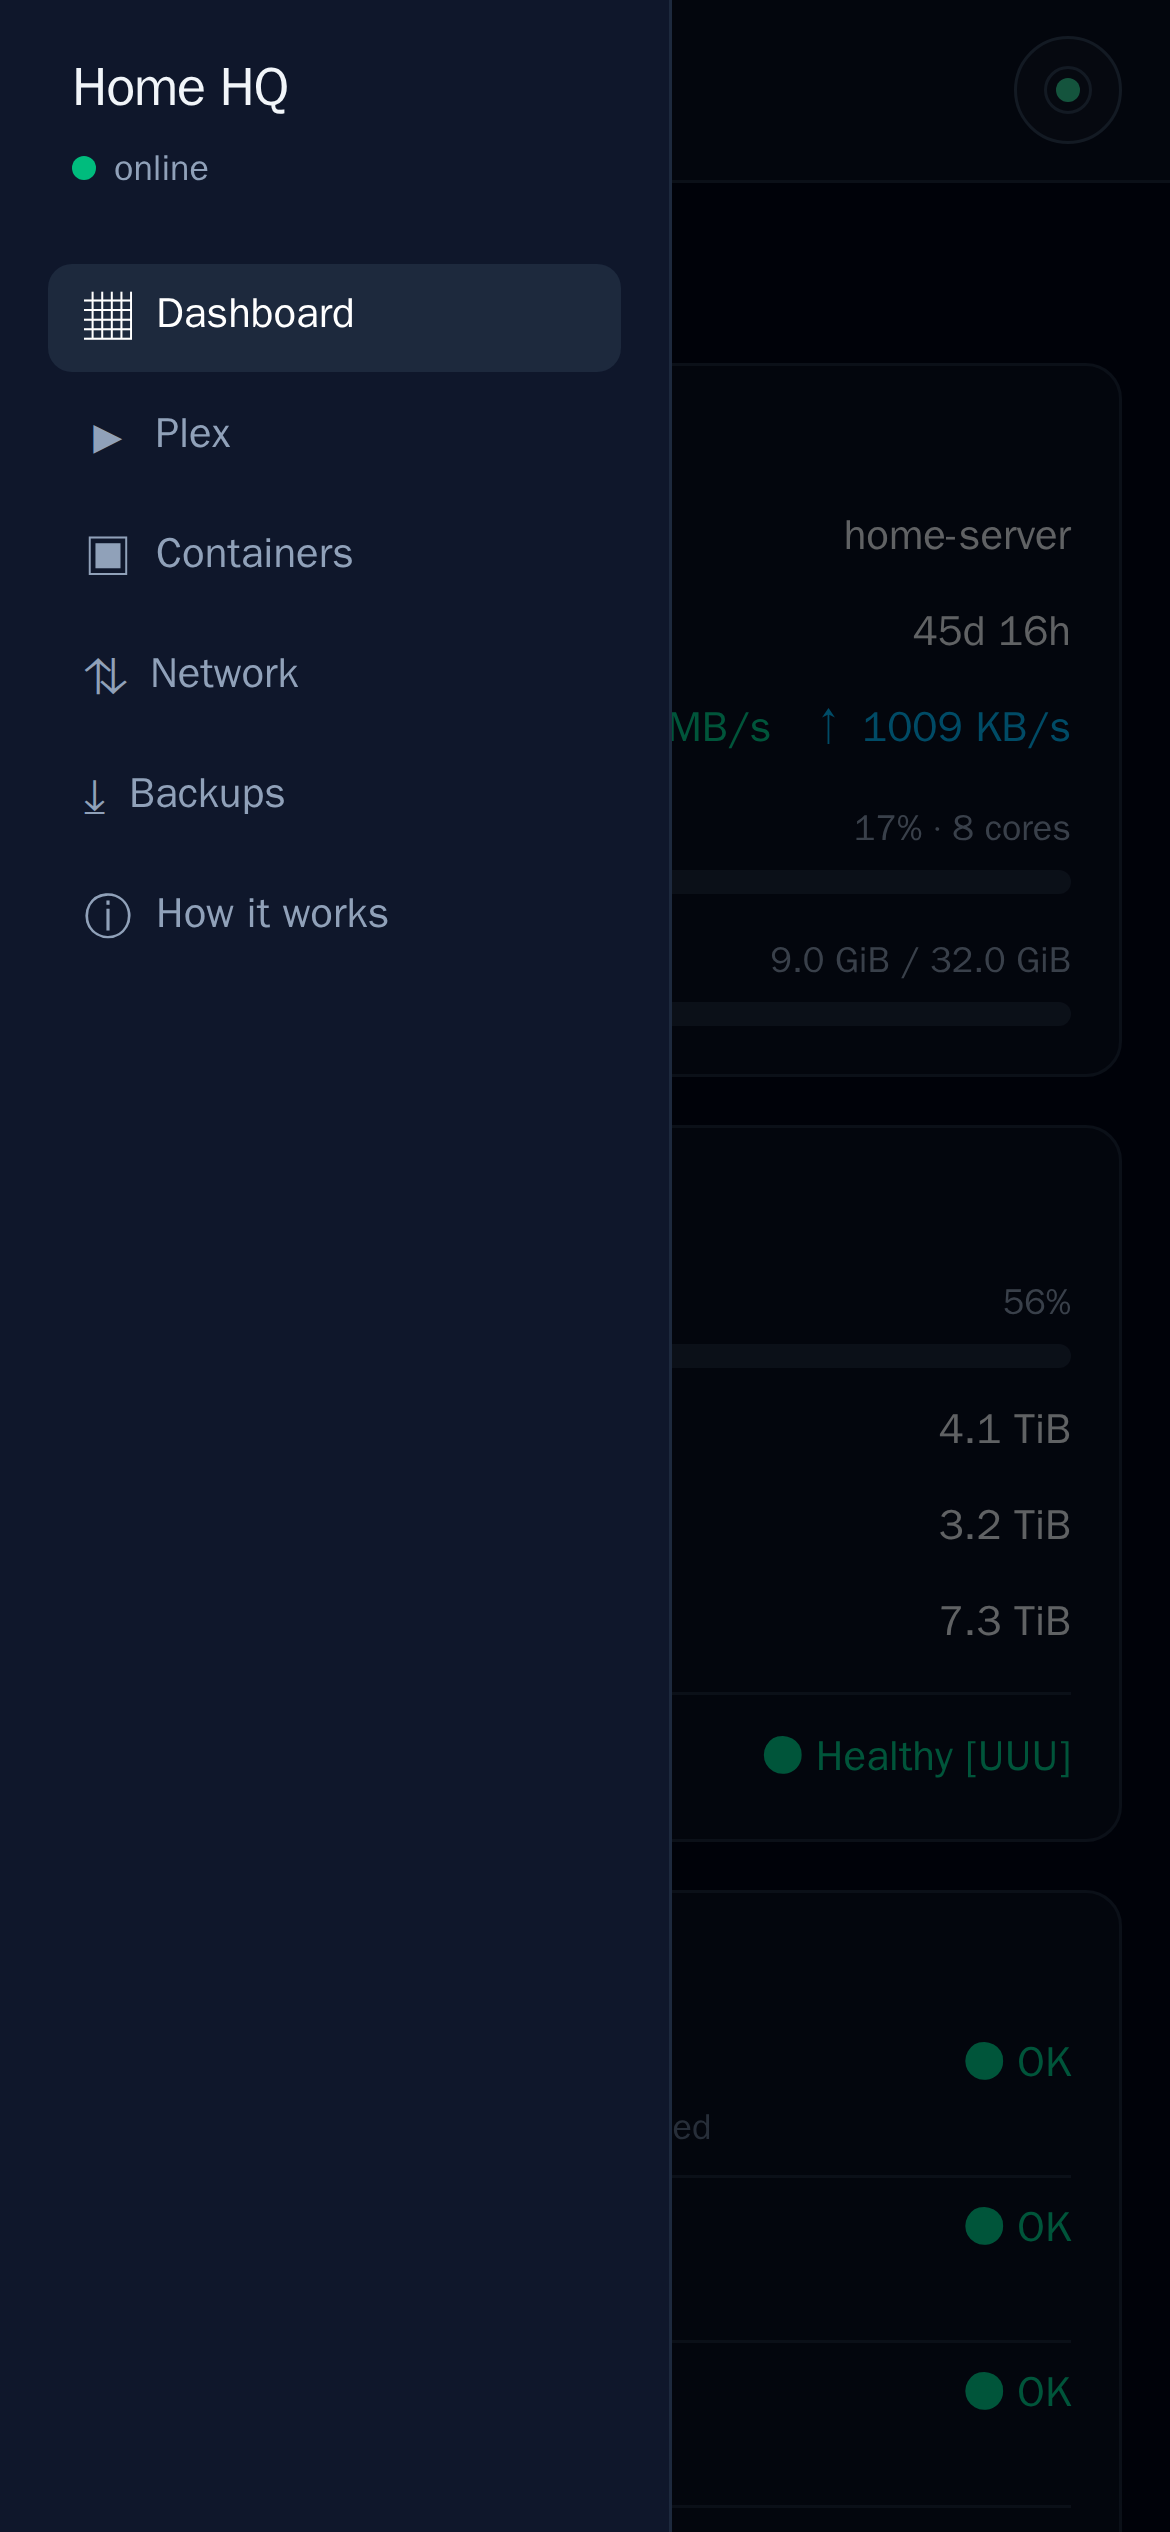
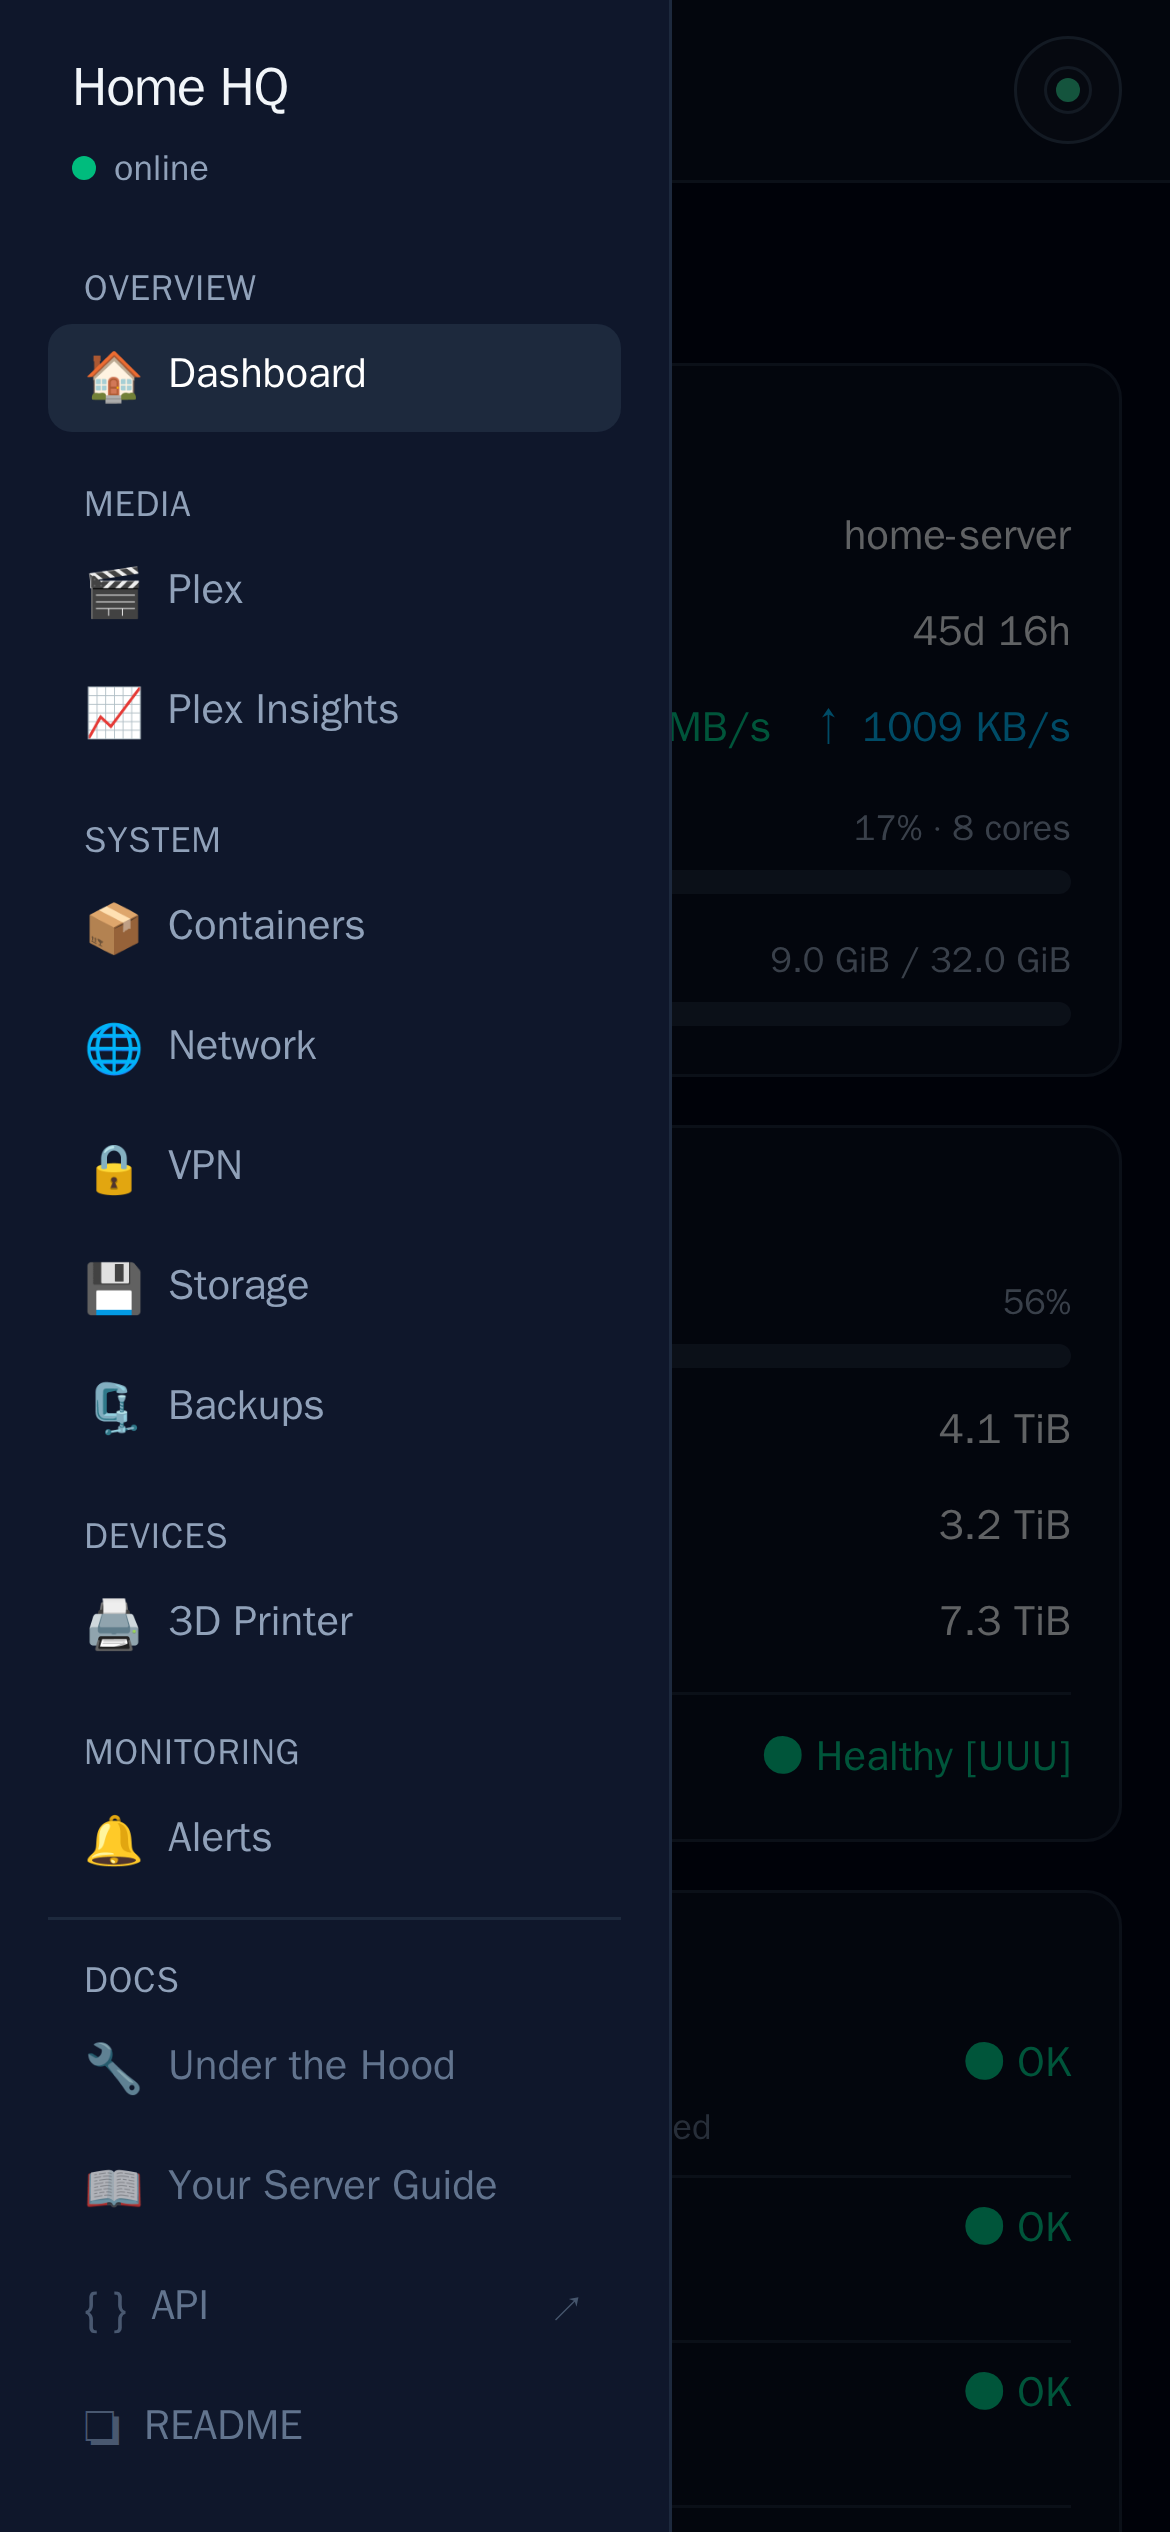
README: refresh content + regenerate screenshots
Add the Alerts module to the feature table; document the printer/alerts
config and the background-workers + privileged-host-script split; fix the
module-registry example to the current emoji icons. Regenerate all
screenshots against generic mock data and add shots for the modules built
since the last pass (3D printer, storage, alerts, VPN, Plex insights); the
theme reel and dashboard now show the grouped sidebar + emoji nav.

diff --git a/README.md b/README.md
@@ -3,9 +3,9 @@
 _AI-assisted build._
 
 **A self-hosted personal platform for running your own server — a small shell that
-modules plug into, grown over time.** One dashboard for system health, storage,
-containers, network, media, and backups, all reproducible from this repo and
-configured entirely through the environment.
+modules plug into, grown over time.** One place for system health, storage,
+containers, network, media, VPN, a 3D printer, and push alerting — all
+reproducible from this repo and configured entirely through the environment.
 
 The platform *is* the project; it never "finishes." Each feature is a
 self-contained **module** that hangs off a common **shell** (nav + layout), so
@@ -30,6 +30,7 @@ the surface area grows without the core getting messier.
 | **VPN** | Egress **leak check** for a VPN-routed container — compares its public exit IP against the host's own and flags a leak if they match (exit vs home shown side by side, with the forwarded port). A host timer does the lookup the unprivileged app can't; a leak raises an urgent alert. |
 | **Storage** | The disk deep-dive: capacity with a growth projection ("full in ~N weeks") and a **what's-using-space breakdown**, RAID array health in plain language, **live per-disk I/O graphs**, and per-drive SMART with temperature/wear **trend charts** from daily samples kept in SQLite. |
 | **Backups** | Lists the host's `age`-encrypted config backups (the encrypt step is a privileged host script; the app only reads the output). |
+| **Alerts** | A background rule engine that watches the same data the dashboard shows and pushes a phone notification (via **ntfy**) when something crosses into a bad state — RAID degraded, a SMART warning, a container down, a print finished/failed, a VPN leak, and more. Edge-triggered (no spam), with a deep-link straight to the relevant page on tap and a dead-man's-switch heartbeat. |
 | **Under the Hood** | An in-app living guide explaining each module, endpoint, and the technologies behind them. |
 | **Server Guide** | Renders your own server's markdown operations doc in-app (set `SERVER_GUIDE_FILE`); ships with an example template. |
 
@@ -53,22 +54,38 @@ anyone evaluating or installing it); **Under the Hood** explains the *software*
 
 ![Home HQ dashboard](docs/img/dashboard.png)
 
+### 3D printer — live telemetry, controls & chamber camera
+
+![3D Printer module](docs/img/printer.png)
+
+### Storage — capacity projection, RAID & SMART trends
+
+![Storage module](docs/img/storage.png)
+
 ### Five built-in themes
 
 One dashboard, cycling through all five palettes — Slate · Carbon · Olive · Crimson · Midnight:
 
 ![Theme palettes cycling](docs/img/themes.webp)
 
-### Modules
+### More modules
 
 <table>
   <tr>
     <td width="50%"><b>Plex library</b><br/><img src="docs/img/plex.png" alt="Plex module"/></td>
-    <td width="50%"><b>Containers</b><br/><img src="docs/img/containers.png" alt="Containers module"/></td>
+    <td width="50%"><b>Plex insights</b><br/><img src="docs/img/plex-insights.png" alt="Plex insights module"/></td>
   </tr>
   <tr>
+    <td width="50%"><b>Containers</b><br/><img src="docs/img/containers.png" alt="Containers module"/></td>
     <td width="50%"><b>Live network throughput</b><br/><img src="docs/img/network.png" alt="Network module"/></td>
+  </tr>
+  <tr>
+    <td width="50%"><b>Push alerts</b><br/><img src="docs/img/alerts.png" alt="Alerts module"/></td>
+    <td width="50%"><b>VPN egress leak check</b><br/><img src="docs/img/vpn.png" alt="VPN module"/></td>
+  </tr>
+  <tr>
     <td width="50%"><b>Encrypted config backups</b><br/><img src="docs/img/backups.png" alt="Backups module"/></td>
+    <td width="50%"></td>
   </tr>
 </table>
 
@@ -103,12 +120,20 @@ Responsive layout with a slide-in nav drawer; installs to the phone home screen.
   the single seam the platform grows along; the `Shell` renders the sidebar
   (a slide-in drawer on phones) and the active page. Polls the API for live data.
 - **Backend** — FastAPI. Each feature is an `APIRouter` mounted under `/api`.
-  Data comes from `psutil` (system), the Docker SDK (containers), host `/proc`
-  (network + RAID), and `PlexAPI`. Every host-specific target is read from config.
+  Data comes from `psutil` (system), the Docker SDK via a read-only socket proxy
+  (containers), host `/proc` (network, disk I/O, RAID), `PlexAPI`, and the printer
+  over local MQTT (`paho-mqtt`). Every host-specific target is read from config.
   Interactive OpenAPI docs (Swagger UI / ReDoc) are auto-generated and served at
   `/api/docs`, `/api/redoc`, and `/api/openapi.json`.
-- **Data** — mostly live/ephemeral. The one stateful piece is a **SQLite cache**
-  for the Plex browser, so search/sort/pagination are instant and rebuildable.
+- **Background workers** — a few daemon threads started in the app lifespan: a
+  persistent printer MQTT client, the alert rule engine (pushes via ntfy), and
+  lightweight samplers that record SMART/capacity and Plex-activity history. Work
+  that needs root (SMART, the VPN egress check, the drive watchdog) lives in
+  **privileged host scripts** that write small state files the app reads —
+  keeping the app itself unprivileged.
+- **Data** — mostly live/ephemeral. The stateful pieces are all **SQLite**: the
+  Plex library cache (instant search/sort, rebuildable), plus history/log tables
+  for storage trends, Plex insights, print history, and the alert state.
 
 **The full design — endpoints, data flow, the config model, drive-health
 split, PWA, and a decision log explaining *why* each choice was made — is in
@@ -118,7 +143,7 @@ split, PWA, and a decision log explaining *why* each choice was made — is in
 
 `React` · `Vite` · `Tailwind CSS` · `react-router` · `vite-plugin-pwa` —
 `FastAPI` · `pydantic-settings` · `psutil` · `Docker SDK` · `PlexAPI` ·
-`SQLite` — `nginx` · `Docker Compose` · `pytest` · `Vitest`.
+`paho-mqtt` · `SQLite` — `nginx` · `Docker Compose` · `ntfy` · `pytest` · `Vitest`.
 
 ---
 
@@ -147,7 +172,12 @@ every value with placeholders only. Nothing secret is ever committed.
 | `API_PORT` | Host port the backend listens on |
 | `DOCKER_SOCKET` | Host Docker socket path, mounted into the backend |
 | `AGE_RECIPIENT` / `BACKUP_DIR` / `BACKUP_RETENTION` | Config-backup settings (optional) |
+| `PRINTER_HOST` / `PRINTER_SERIAL` / `PRINTER_ACCESS_CODE` | 3D-printer connection over local MQTT (optional; module hides if unset) |
+| `ALERTS_ENABLED` / `NTFY_URL` / `NTFY_TOPIC` | Push alerts via ntfy (optional) |
 | `VITE_API_BASE` | Base path the frontend uses to call the API |
+
+`.env.example` documents the full set (printer camera, alert thresholds, VPN
+state path, server-guide file, and more).
 
 ### Production vs. dev
 
@@ -179,9 +209,9 @@ backend** and an **entry in the frontend registry** — nothing else changes.
 
 ```jsx
 const modules = [
-  { id: 'dashboard', label: 'Dashboard', path: '/dashboard', icon: '▦', group: 'Overview' },
+  { id: 'dashboard', label: 'Dashboard', path: '/dashboard', icon: '🏠', group: 'Overview' },
   // ...
-  { id: 'foo', label: 'Foo', path: '/foo', icon: '★', group: 'System' },   // ← new module
+  { id: 'foo', label: 'Foo', path: '/foo', icon: '✨', group: 'System' },   // ← new module
 ]
 ```
 
